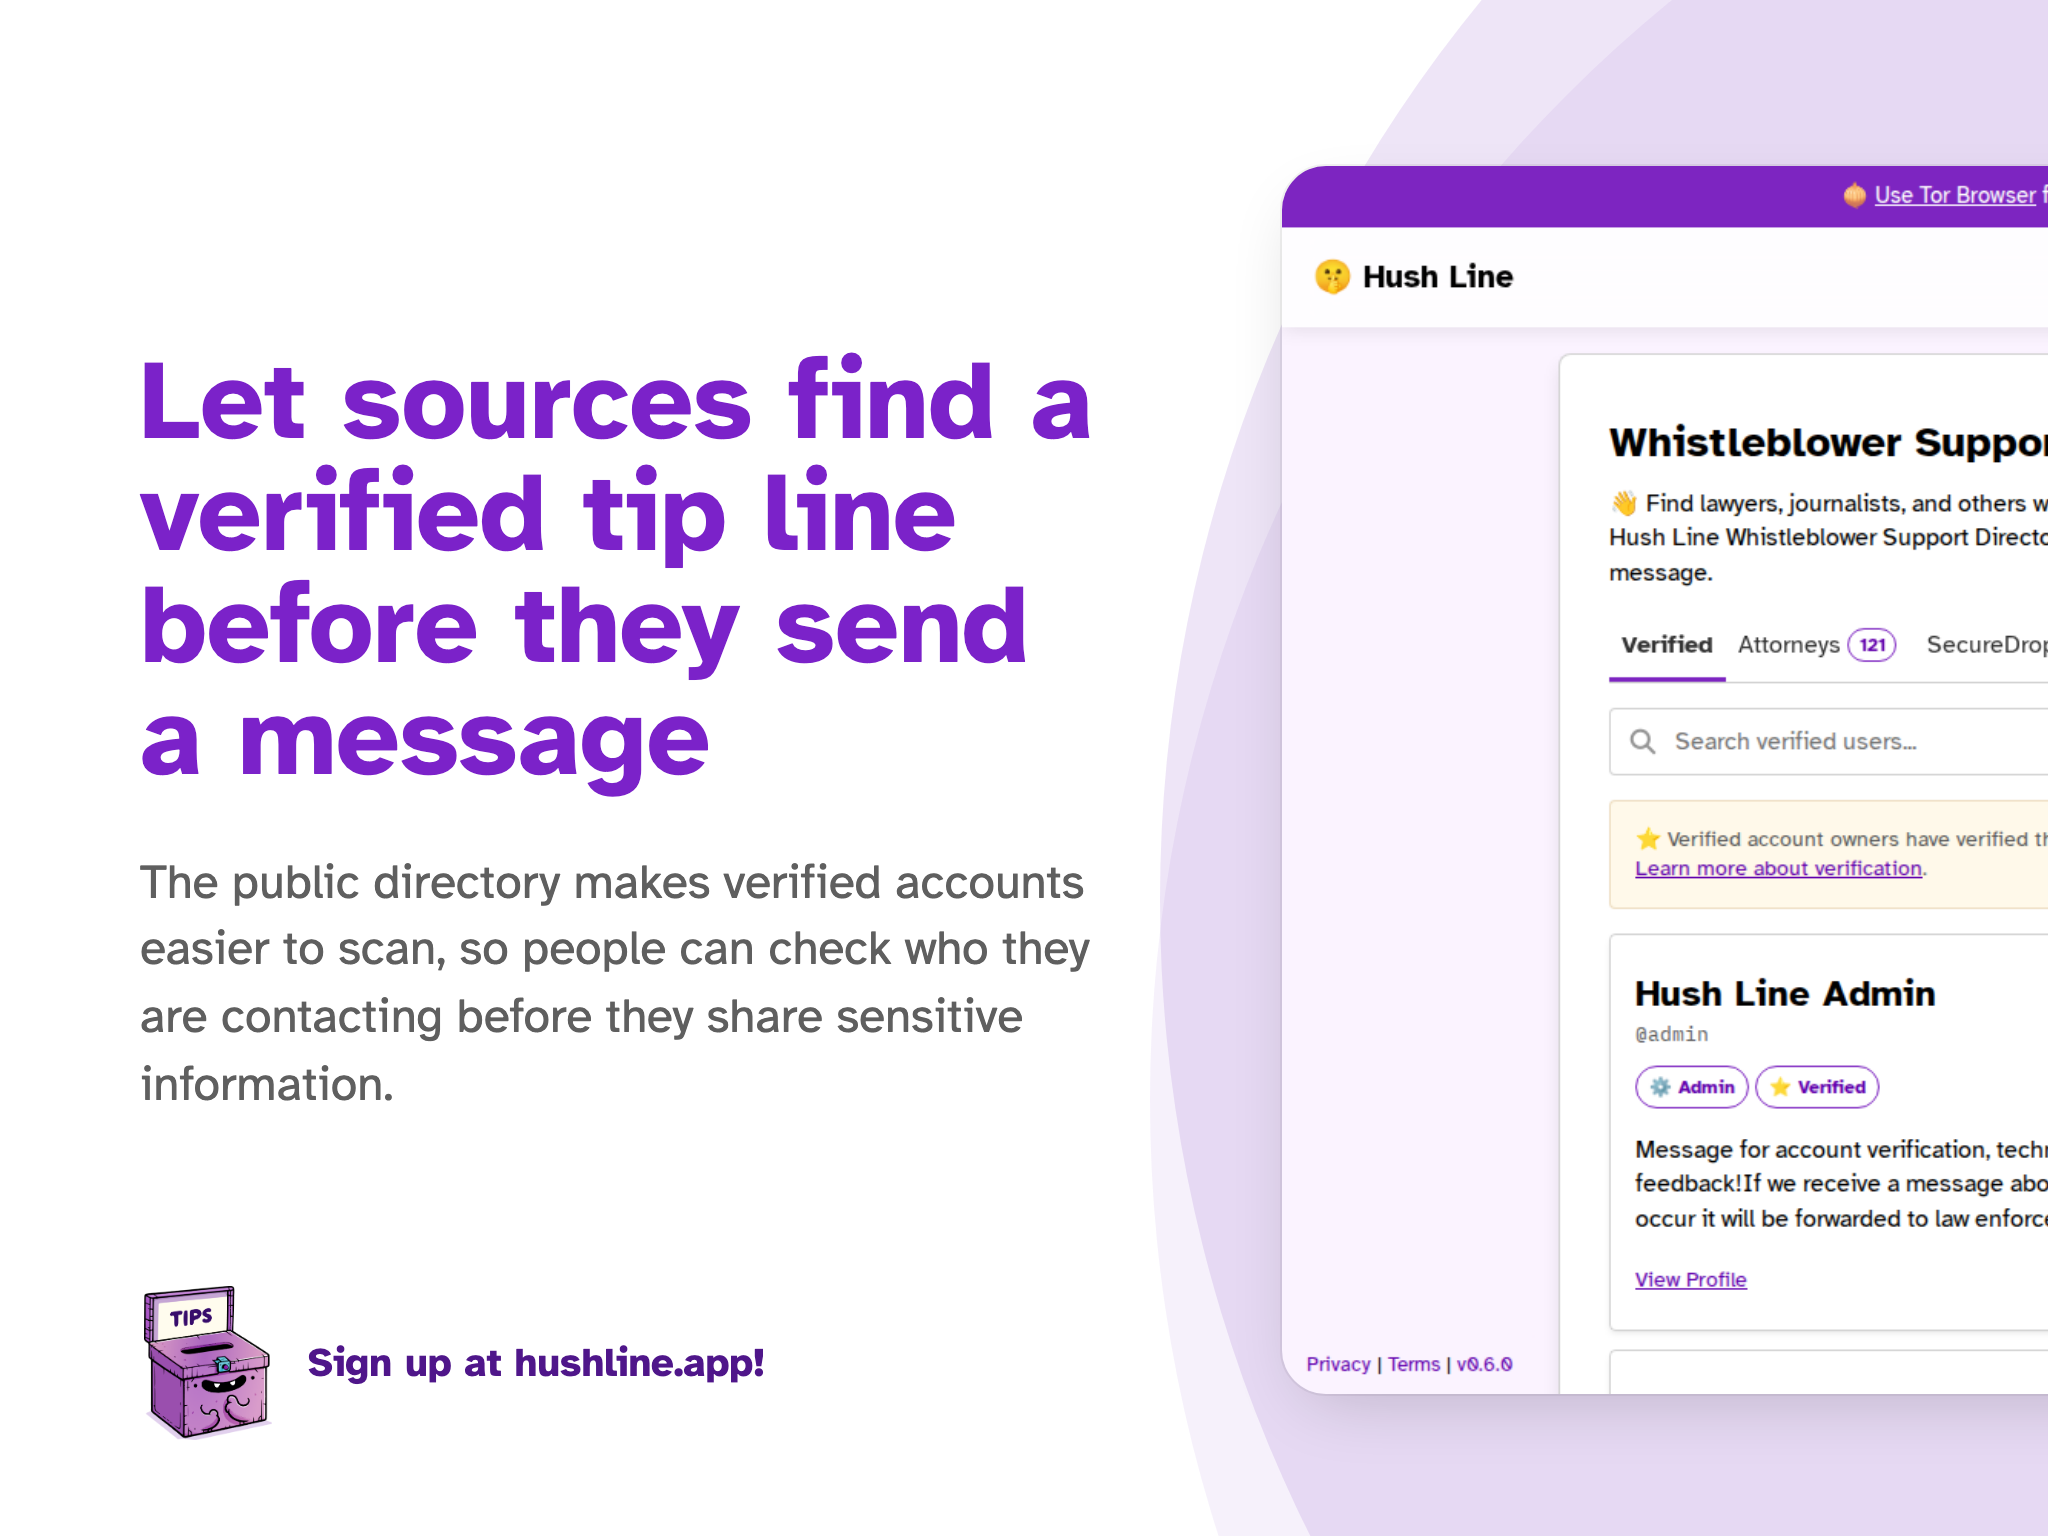
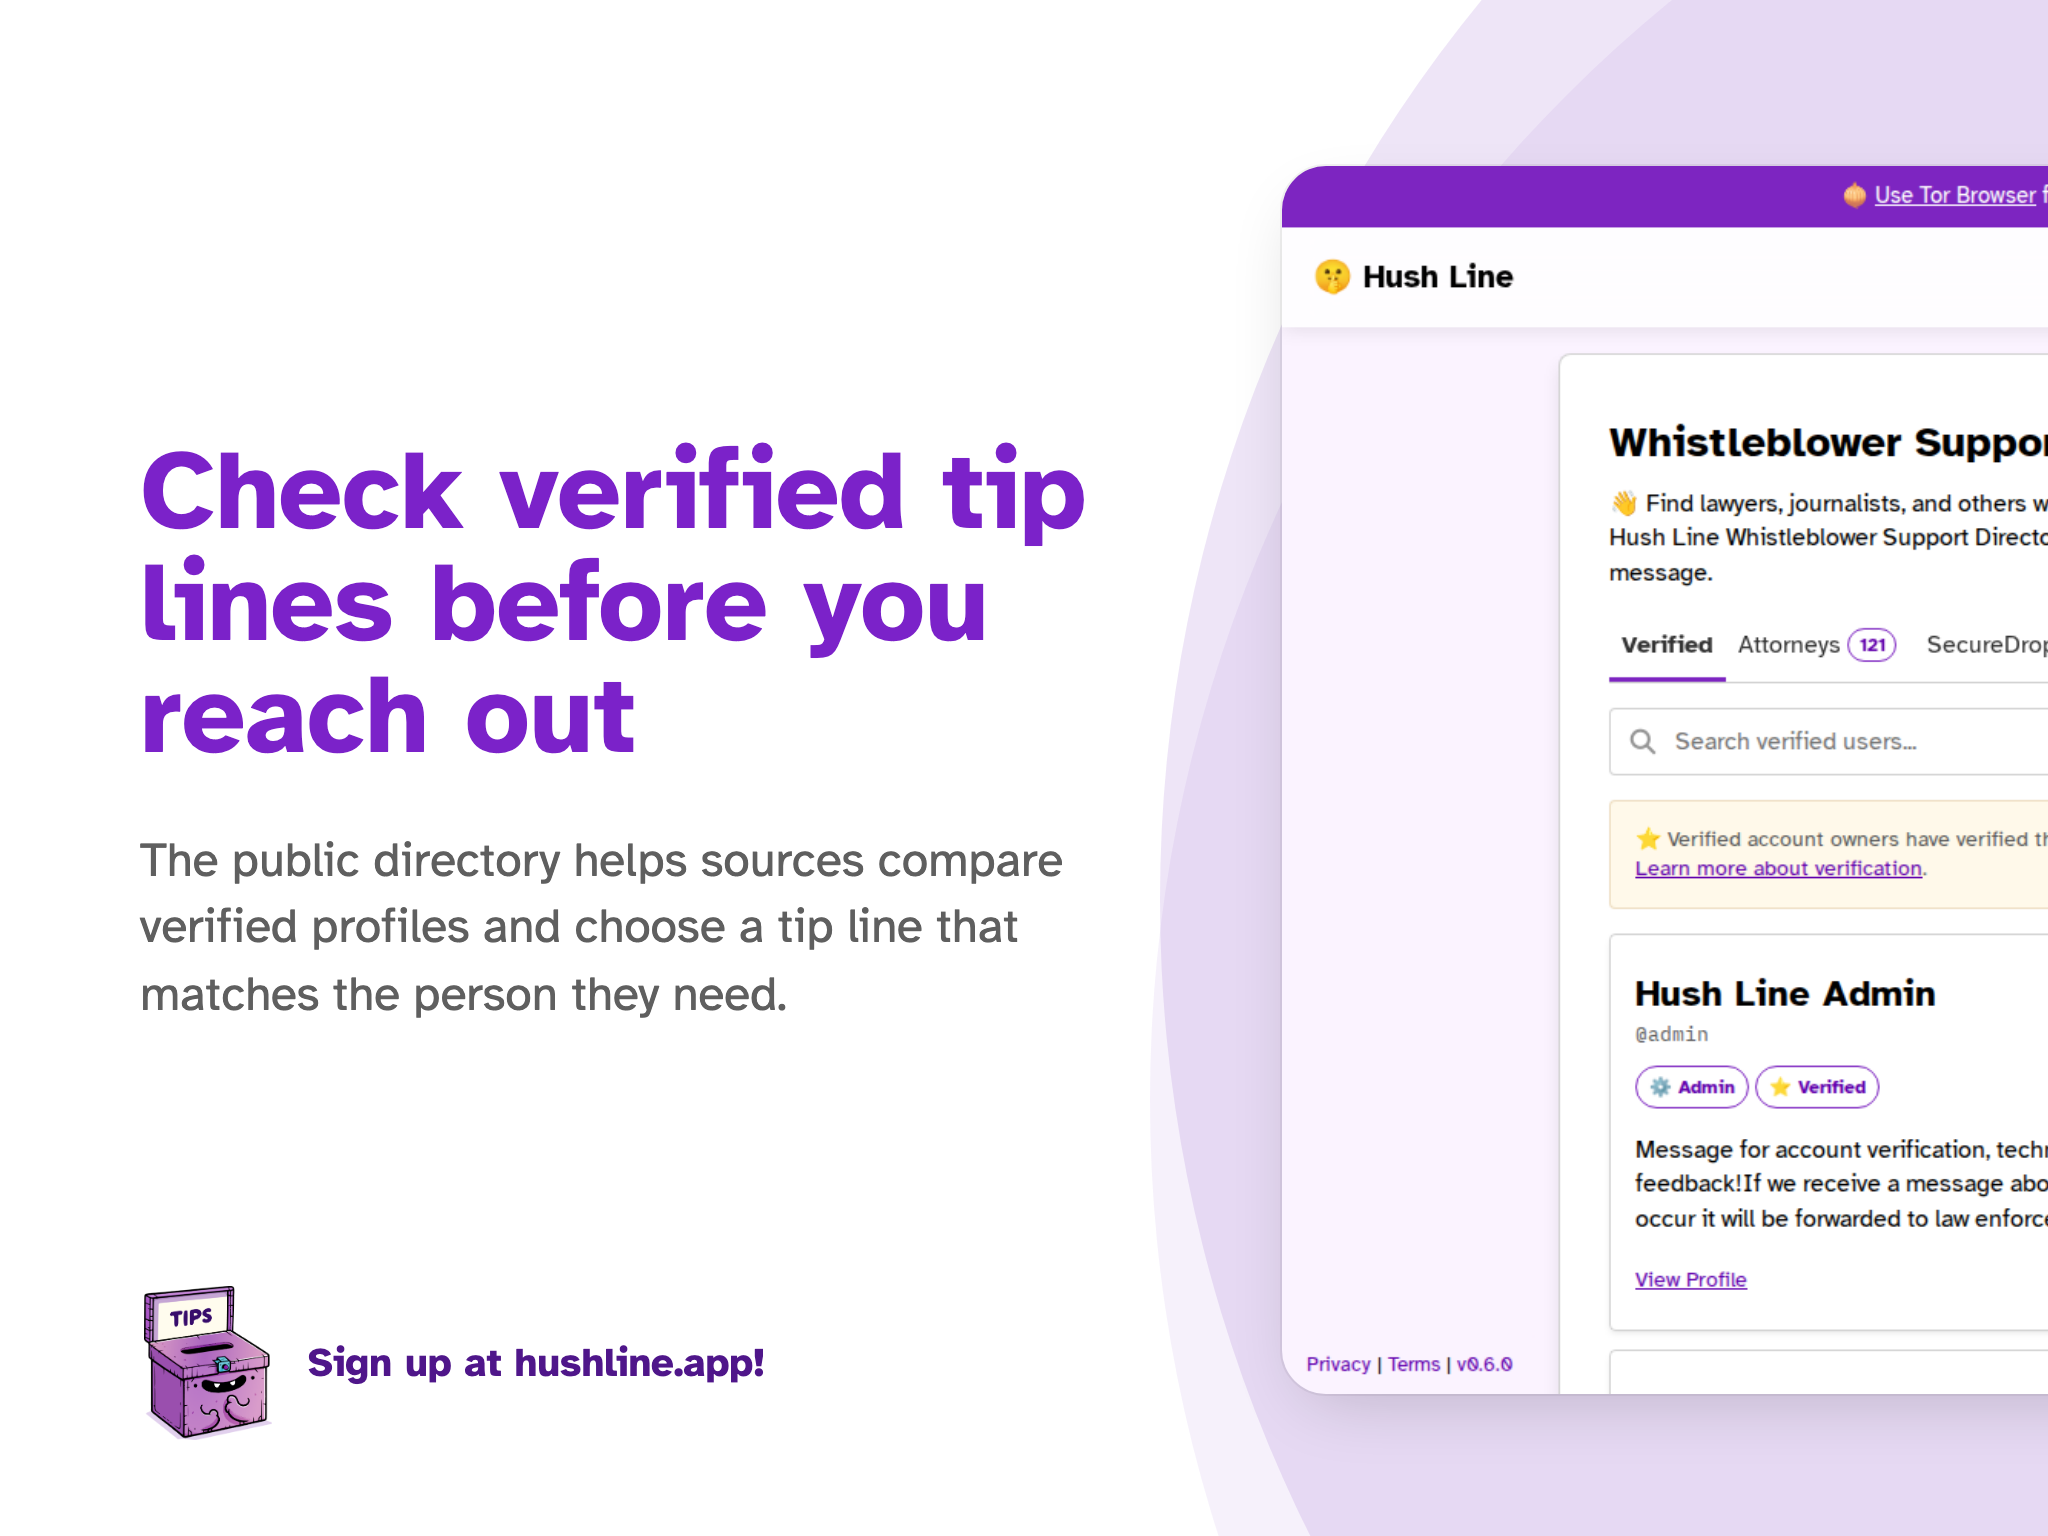
Archive social post for 2026-03-20

Changed region(s): [[0.0625, 0.2188, 0.5312, 0.7188]]

diff --git a/previous-posts/2026-03-20/social-card.html b/previous-posts/2026-03-20/social-card.html
@@ -3,7 +3,7 @@
 <head>
   <meta charset="UTF-8" />
   <meta name="viewport" content="width=device-width, initial-scale=1.0" />
-  <title>Let sources find a verified tip line before they send a message</title>
+  <title>Check verified tip lines before you reach out</title>
   <link rel="preconnect" href="https://fonts.googleapis.com">
   <link rel="preconnect" href="https://fonts.gstatic.com" crossorigin>
   <link href="https://fonts.googleapis.com/css2?family=Atkinson+Hyperlegible:ital,wght@0,400;0,700;1,400;1,700&family=EB+Garamond:ital,wght@0,400..800;1,400..800&display=swap" rel="stylesheet">
@@ -161,15 +161,15 @@
 
     <div class="layout">
       <section class="left">
-        <h1 class="headline">Let sources find a verified tip line before they send a message</h1>
+        <h1 class="headline">Check verified tip lines before you reach out</h1>
         <p class="subtext">
-          The public directory makes verified accounts easier to scan, so people can check who they are contacting before they share sensitive information.
+          The public directory helps sources compare verified profiles and choose a tip line that matches the person they need.
         </p>
       </section>
 
       <section class="right">
         <div class="desktop-panel">
-          <img src="./guest-directory-verified-desktop-light-fold.png" alt="Social graphic built around a desktop Hush Line directory screen. The page is titled &quot;Whistleblower Support Directory&quot; with the Verified tab selected, a search field for verified users, a note explaining that verified account owners confirmed their identities with staff, and a profile card below showing Admin and Verified badges." />
+          <img src="./guest-directory-verified-desktop-light-fold.png" alt="Social graphic built around a desktop Hush Line directory screen on the Verified tab. The image shows a list of verified recipient profiles with search and filtering controls above the results." />
         </div>
       </section>
     </div>
